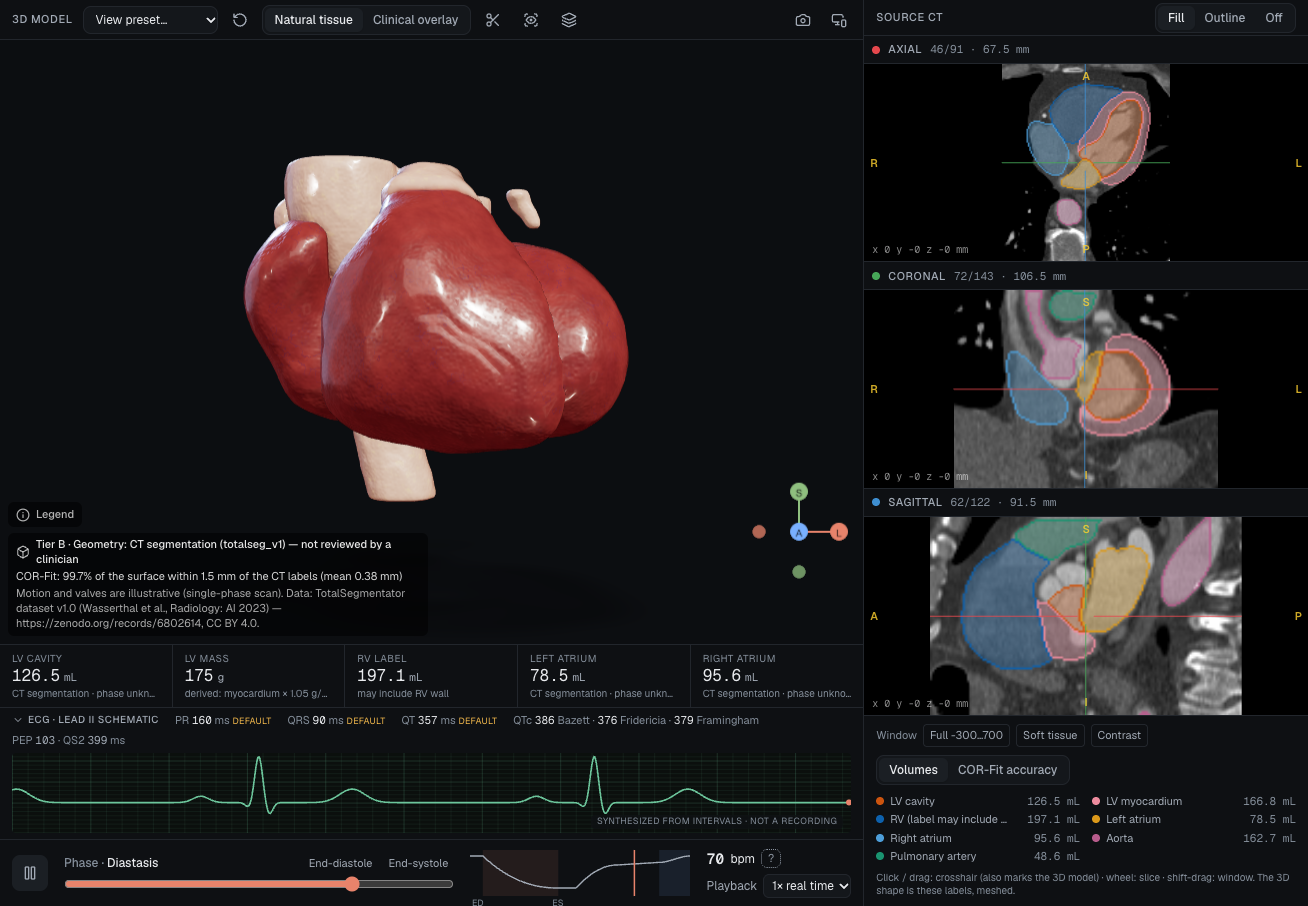
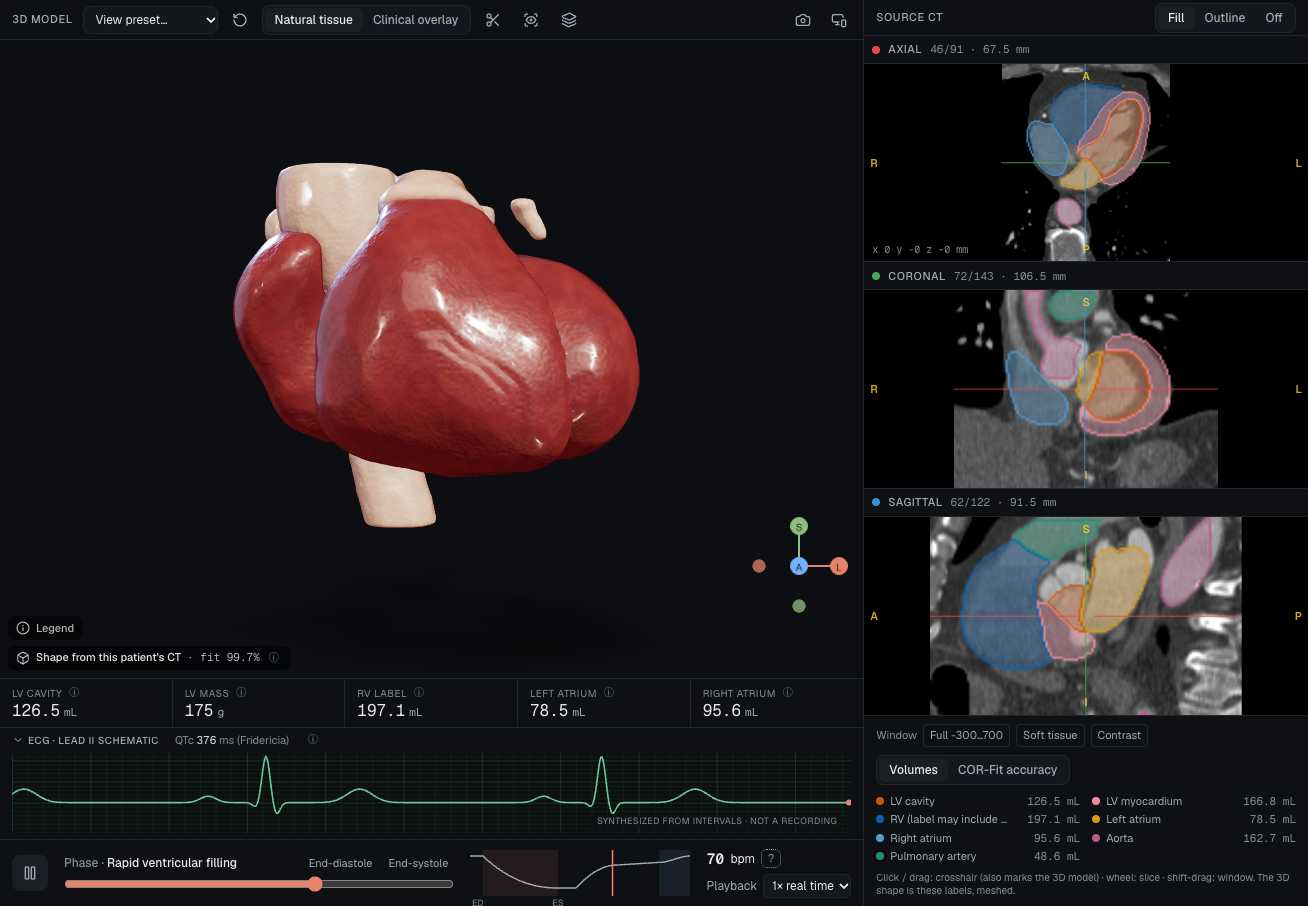
Declutter: one line on screen, details behind ⓘ
InfoTip (hover/keyboard focus, kept in the DOM). Heart: geometry badge one
line + fit, metric sources and ECG intervals/QTc formulas/PEP behind ⓘ,
QTc shown once (Fridericia). Brain: selection card volume + asymmetry,
no man/auto chips, 4 summary metrics, one-line provenance with fit,
coordinates on the axial slice only. Nothing removed, only moved.

diff --git a/src/brain/BrainWorkspace.tsx b/src/brain/BrainWorkspace.tsx
@@ -2,7 +2,7 @@
 // Brain module: structure list | 3D model + measurements | MRI evidence (axial, coronal, sagittal).
 import dynamic from "next/dynamic";
 import { Database, Loader2 } from "lucide-react";
-import { PanelHeader, Segmented, Switch } from "@/components/ui/primitives";
+import { InfoTip, PanelHeader, Segmented, Switch } from "@/components/ui/primitives";
 import { fmtMm, fmtPct } from "@/imaging/fidelity";
 import { useWebgl } from "@/components/workspace/HeartViewport";
 import { useBrain } from "./brainStore";
@@ -47,7 +47,6 @@ export function BrainWorkspace() {
           <SliceView vol={data.vol} view="coronal" useStore={useBrain} />
           <SliceView vol={data.vol} view="sagittal" useStore={useBrain} />
         </div>
-        <p className="border-t border-line bg-panel px-3 py-1.5 text-[10px] leading-snug text-faint">Click or drag to move the crosshair · wheel: next slice · shift-drag: window/level</p>
       </section>
       )}
     </div>
@@ -75,6 +74,7 @@ function SliceControls() {
       <Segmented<"fill" | "outline" | "off"> label="Segmentation overlay" value={s.overlay} onChange={(v) => s.set({ overlay: v })}
         options={[{ value: "fill", label: "Fill" }, { value: "outline", label: "Outline" }, { value: "off", label: "Off" }]} />
       <button className="text-[11px] text-muted hover:text-ink" onClick={() => s.set({ windowCenter: 128, windowWidth: 256 })} title="Reset window/level">W/L</button>
+      <InfoTip label="Slice controls" align="right" side="bottom">Click or drag to move the crosshair · wheel: next slice · shift-drag: window/level</InfoTip>
     </>
   );
 }
@@ -90,18 +90,25 @@ function Selection({ data }: { data: BrainData }) {
   const fit = data.manifest.fidelity?.structures.find((r) => r.index === st.index);
   return (
     <div className="absolute left-3 top-3 w-[260px] rounded-lg border border-line bg-panel/90 p-2.5 text-[12px] shadow-[var(--shadow)] backdrop-blur" data-testid="brain-selection">
-      <p className="font-medium text-ink">{st.name}</p>
+      <div className="flex items-center gap-1.5 font-medium text-ink">
+        {st.name}
+        <InfoTip label={`${st.name}: details`} side="bottom">
+          <dl className="grid grid-cols-[auto_auto] gap-x-3 gap-y-0.5">
+            {twin && <><dt className="text-faint">Contralateral</dt><dd className="num">{twin.volumeMl.toFixed(2)} mL</dd></>}
+            <dt className="text-faint">Labelled</dt><dd>{st.method === "manual" ? "Manually (DKT31)" : st.method.startsWith("automatic (FreeSurfer") ? "Automatically (FreeSurfer)" : st.method}</dd>
+            <dt className="text-faint">Labels</dt><dd className="num">{st.labels.join(", ")}</dd>
+            {fit && fit.nsdPercent != null && <>
+              <dt className="text-faint">COR-Fit ≤1 vox</dt><dd className="num text-ink">{fmtPct(fit.nsdPercent)}</dd>
+              <dt className="text-faint">Mean / HD95</dt><dd className="num">{fmtMm(fit.meanMm)} / {fmtMm(fit.hd95Mm)}</dd>
+              {fit.volumeErrorPercent != null && <><dt className="text-faint">3D vs label volume</dt><dd className="num">{fit.volumeErrorPercent >= 0 ? "+" : ""}{fit.volumeErrorPercent.toFixed(1)} %</dd></>}
+            </>}
+          </dl>
+          <span className="mt-1 block text-faint">COR-Fit: share of this structure&apos;s 3D surface within one voxel of its labels (both directions). Asymmetry: (this − other) / mean.</span>
+        </InfoTip>
+      </div>
       <dl className="mt-1.5 grid grid-cols-[1fr_auto] gap-y-0.5 text-[11px]">
         <dt className="text-faint">Volume</dt><dd className="num text-ink">{st.volumeMl.toFixed(2)} mL</dd>
-        {twin && <><dt className="text-faint">Contralateral</dt><dd className="num">{twin.volumeMl.toFixed(2)} mL</dd></>}
-        {asym !== null && <><dt className="text-faint" title="(this − other) / mean, derived from the two volumes">Asymmetry</dt><dd className="num">{asym >= 0 ? "+" : ""}{asym.toFixed(1)} %</dd></>}
-        <dt className="text-faint">Labelled</dt><dd>{st.method === "manual" ? "Manually (DKT31)" : "Automatically (FreeSurfer)"}</dd>
-        <dt className="text-faint">Labels</dt><dd className="num">{st.labels.join(", ")}</dd>
-        {fit && fit.nsdPercent != null && <>
-          <dt className="text-faint" title="COR-Fit: share of this structure's 3D surface within one voxel of its labels (both directions)">COR-Fit ≤1 vox</dt><dd className="num text-ink">{fmtPct(fit.nsdPercent)}</dd>
-          <dt className="text-faint">Mean / HD95</dt><dd className="num">{fmtMm(fit.meanMm)} / {fmtMm(fit.hd95Mm)}</dd>
-          {fit.volumeErrorPercent != null && <><dt className="text-faint">3D vs label volume</dt><dd className="num">{fit.volumeErrorPercent >= 0 ? "+" : ""}{fit.volumeErrorPercent.toFixed(1)} %</dd></>}
-        </>}
+        {asym !== null && <><dt className="text-faint">Asymmetry</dt><dd className="num">{asym >= 0 ? "+" : ""}{asym.toFixed(1)} %</dd></>}
       </dl>
       {!selected && <p className="mt-1 text-[10px] text-faint">Hover preview — click to select</p>}
     </div>
@@ -121,21 +128,21 @@ function Summary({ data }: { data: BrainData }) {
   );
   return (
     <div className="shrink-0 border-t border-line bg-panel">
-      <div className="grid grid-cols-2 divide-x divide-line md:grid-cols-6">
+      <div className="grid grid-cols-2 divide-x divide-line md:grid-cols-4">
         {metric("Labelled brain volume", `${m.totals.brainMl.toFixed(0)} mL`, "All labelled voxels (skull and CSF outside the labels excluded)")}
-        {metric("Cortex L / R", `${m.totals.cortexLeftMl.toFixed(0)} / ${m.totals.cortexRightMl.toFixed(0)} mL`, "Sum of manual cortical labels per hemisphere")}
-        {metric("Cortical asymmetry", `${asym >= 0 ? "+" : ""}${asym.toFixed(1)} %`, "(left − right) / mean, derived")}
+        {metric("Cortex L / R", `${m.totals.cortexLeftMl.toFixed(0)} / ${m.totals.cortexRightMl.toFixed(0)} mL`, `Sum of cortical labels per hemisphere; asymmetry (left − right) / mean ${asym >= 0 ? "+" : ""}${asym.toFixed(1)} %`)}
         {metric("Hippocampi", `${hip.toFixed(2)} mL`, "Left + right, FreeSurfer automatic labels")}
         {metric("Ventricles", `${ventricles.toFixed(1)} mL`, "Lateral, third and fourth ventricles, FreeSurfer automatic labels")}
-        {m.fidelity && metric(`COR-Fit ≤ ${m.fidelity.toleranceMm} mm`, fmtPct(m.fidelity.overall.nsdPercent),
-          `Share of the 3D surface within one MRI voxel of the segmentation (both directions); mean ${m.fidelity.overall.meanMm} mm. Cortex ${m.fidelity.cortex.nsdPercent}%, deep structures ${m.fidelity.deep.nsdPercent}%. Fidelity to the labels, not clinical accuracy.`)}
       </div>
-      <p className="flex items-start gap-1.5 border-t border-line px-3 py-1.5 text-[10px] leading-snug text-faint" data-testid="brain-provenance">
-        <Database className="mt-0.5 h-3 w-3 shrink-0" />
-        <span>
-          {m.modality}, healthy adult volunteer ({m.subject}). Cortex: {m.provenance.cortex}. Deep structures: {m.provenance.subcortical}. Not reviewed by a clinician; no normative comparison.
-          Data: {m.dataset.name}, {m.dataset.license} — {m.dataset.source}.
-        </span>
+      <p className="flex items-center gap-1.5 border-t border-line px-3 py-1.5 text-[11px] text-faint" data-testid="brain-provenance">
+        <Database className="h-3 w-3 shrink-0" />
+        <span className="truncate">Healthy adult volunteer · {m.dataset.license}</span>
+        {m.fidelity && <span className="num text-muted">· fit {fmtPct(m.fidelity.overall.nsdPercent)}</span>}
+        <InfoTip label="Data source and accuracy">
+          <span className="block">{m.modality}, healthy adult volunteer ({m.subject}). Cortex: {m.provenance.cortex}. Deep structures: {m.provenance.subcortical}. Not reviewed by a clinician; no normative comparison.</span>
+          {m.fidelity && <span className="mt-1 block">COR-Fit ≤ {m.fidelity.toleranceMm} mm: {fmtPct(m.fidelity.overall.nsdPercent)} of the 3D surface within one MRI voxel of the segmentation (both directions); mean {m.fidelity.overall.meanMm} mm. Cortex {m.fidelity.cortex.nsdPercent}%, deep structures {m.fidelity.deep.nsdPercent}%. Fidelity to the labels, not clinical accuracy.</span>}
+          <span className="mt-1 block text-faint">Data: {m.dataset.name}, {m.dataset.license} — {m.dataset.source}.</span>
+        </InfoTip>
       </p>
     </div>
   );

diff --git a/src/components/workspace/EcgStrip.tsx b/src/components/workspace/EcgStrip.tsx
@@ -7,7 +7,7 @@ import { ecgAt, ecgTiming, type Interval } from "@/domain/ecg";
 import type { PatientEntry } from "@/lib/patients";
 import { useApp } from "@/state/store";
 import { getClock } from "@/scene/animation/clock";
-import { cx } from "../ui/primitives";
+import { cx, InfoTip } from "../ui/primitives";
 
 const BEATS = 2.5; // RR intervals visible
 const EV_LABEL: Record<Interval["evidence"], string> = { reported: "reported", derived: "derived", population_default: "default" };
@@ -95,18 +95,23 @@ export function EcgStrip({ entry }: { entry: PatientEntry }) {
         <button className="flex items-center gap-1 text-[10px] font-medium uppercase tracking-wider text-muted hover:text-ink" onClick={() => setOpen(!open)} aria-expanded={open}>
           {open ? <ChevronDown className="h-3 w-3" /> : <ChevronUp className="h-3 w-3" />} ECG · lead II schematic
         </button>
-        {row("PR", timing.pr)}
-        {row("QRS", timing.qrs)}
-        {row("QT", timing.qt)}
-        <span className="whitespace-nowrap" title="Rate-corrected QT: Bazett QT/√RR, Fridericia QT/∛RR, Framingham QT + 0.154(1 − RR) (Sagie 1992)">
-          <span className="text-faint">QTc</span> <span className="num text-ink">{Math.round(q.bazett)}</span><span className="text-faint"> Bazett · </span>
-          <span className="num text-ink">{Math.round(q.fridericia)}</span><span className="text-faint"> Fridericia · </span>
-          <span className="num text-ink">{Math.round(q.framingham)}</span><span className="text-faint"> Framingham</span>
-          {q.reported && <span className="text-faint"> (reported {q.reported.ms}{q.reported.method ? ` ${q.reported.method}` : ""})</span>}
+        <span className="whitespace-nowrap">
+          <span className="text-faint">QTc</span> <span className="num text-ink">{Math.round(q.fridericia)}</span><span className="text-faint"> ms (Fridericia)</span>
         </span>
-        <span className="whitespace-nowrap text-faint" title="Weissler 1968 systolic time intervals (men): PEP = 131 − 0.4·HR, QS2 = 546 − 2.1·HR. QRS onset is placed one PEP before aortic valve opening in the 3D cycle.">
-          PEP <span className="num text-muted">{Math.round(timing.pep)}</span> · QS2 <span className="num text-muted">{Math.round(timing.qs2)}</span> ms
-        </span>
+        <InfoTip label="ECG intervals and sources">
+          <span className="flex flex-col gap-1">
+            <span className="flex flex-wrap gap-x-3">{row("PR", timing.pr)}{row("QRS", timing.qrs)}{row("QT", timing.qt)}</span>
+            <span title="Rate-corrected QT: Bazett QT/√RR, Fridericia QT/∛RR, Framingham QT + 0.154(1 − RR) (Sagie 1992)">
+              <span className="text-faint">QTc</span> <span className="num text-ink">{Math.round(q.bazett)}</span><span className="text-faint"> Bazett · </span>
+              <span className="num text-ink">{Math.round(q.fridericia)}</span><span className="text-faint"> Fridericia · </span>
+              <span className="num text-ink">{Math.round(q.framingham)}</span><span className="text-faint"> Framingham</span>
+              {q.reported && <span className="text-faint"> (reported {q.reported.ms}{q.reported.method ? ` ${q.reported.method}` : ""})</span>}
+            </span>
+            <span className="text-faint">
+              PEP <span className="num text-muted">{Math.round(timing.pep)}</span> · QS2 <span className="num text-muted">{Math.round(timing.qs2)}</span> ms — Weissler 1968 (men): PEP = 131 − 0.4·HR, QS2 = 546 − 2.1·HR; QRS onset is placed one PEP before aortic valve opening.
+            </span>
+          </span>
+        </InfoTip>
       </div>
       {open && (
         <div className="relative h-[86px] px-3 pb-1.5">

diff --git a/src/brain/StructurePanel.tsx b/src/brain/StructurePanel.tsx
@@ -2,7 +2,7 @@
 // Structure tree: every labelled structure with its measured volume and how it was labelled.
 import { useMemo, useState } from "react";
 import { ChevronRight, Eye, EyeOff, Search } from "lucide-react";
-import { PanelHeader, cx } from "@/components/ui/primitives";
+import { InfoTip, PanelHeader, cx } from "@/components/ui/primitives";
 import { useBrain } from "./brainStore";
 import { flatIndex, type Vec3 } from "@/imaging/sliceGeometry";
 import type { BrainData } from "./useBrainData";
@@ -57,7 +57,11 @@ export function StructurePanel({ data }: { data: BrainData }) {
 
   return (
     <aside className="flex h-full min-h-0 flex-col" aria-label="Brain structures">
-      <PanelHeader title="Structures" count={structures.length} />
+      <PanelHeader title="Structures" count={structures.length} aside={
+        <InfoTip label="How structures were labelled" align="right" side="bottom">
+          Volumes: voxel counts of each label in this scan (mL). Cortical regions: {structures.some((x) => x.method === "manual") ? "manual labels (DKT31 protocol)" : structures.find((x) => x.group === "cortex")?.method ?? "—"}. Deep structures: FreeSurfer automatic labels, not manually reviewed.
+        </InfoTip>
+      } />
       <label className="flex items-center gap-2 border-b border-line px-3 py-2">
         <Search className="h-3.5 w-3.5 text-faint" aria-hidden />
         <input value={query} onChange={(e) => setQuery(e.target.value)} placeholder="Find structure" aria-label="Find structure" className="w-full bg-transparent text-[12px] outline-none placeholder:text-faint" />
@@ -82,7 +86,6 @@ export function StructurePanel({ data }: { data: BrainData }) {
                       <button className="min-w-0 flex-1 truncate py-1 text-left" onClick={() => select(st)} title={`${st.name} — labels ${st.labels.join(", ")} · ${st.method}`}>
                         {st.name.replace(/ \((left|right)\)$/, g.id.startsWith("ctx") ? "" : " ($1)")}
                       </button>
-                      <span className={cx("shrink-0 rounded px-1 text-[9px] uppercase tracking-wide", st.method === "manual" ? "bg-ok/15 text-ok" : "bg-panel-3 text-faint")} title={st.method}>{st.method === "manual" ? "man" : "auto"}</span>
                       <span className="num w-14 shrink-0 text-right text-[11px] text-muted">{st.volumeMl.toFixed(2)}</span>
                       {st.group !== "cortex" && (
                         <button className="shrink-0 rounded p-0.5 text-faint opacity-60 hover:text-ink group-hover:opacity-100" aria-label={s.hidden.has(st.index) ? `Show ${st.name}` : `Hide ${st.name}`} onClick={() => s.toggleHidden(st.index)}>
@@ -97,7 +100,6 @@ export function StructurePanel({ data }: { data: BrainData }) {
           );
         })}
       </div>
-      <p className="border-t border-line px-3 py-2 text-[10px] leading-snug text-faint">Volumes: voxel counts of each label in this scan (mL). <span className="text-ok">man</span> = manual cortical label (DKT31); auto = FreeSurfer automatic, not manually reviewed.</p>
     </aside>
   );
 }

diff --git a/src/components/workspace/GeometryBadge.tsx b/src/components/workspace/GeometryBadge.tsx
@@ -1,29 +1,32 @@
 "use client";
 import { Box } from "lucide-react";
 import type { HeartAssetSpec } from "@/scene/asset-adapters/registry";
+import { InfoTip } from "../ui/primitives";
 
-/** Where the 3D shape comes from — always visible next to the heart (provenance is part of the picture). */
+/** Where the 3D shape comes from — always visible next to the heart (provenance is part of the picture).
+ * One short line on screen; the full source, COR-Fit numbers and caveats sit behind ⓘ. */
 export function GeometryBadge({ spec }: { spec: HeartAssetSpec }) {
   const m = spec.manifest;
   const fit = m.fidelity ? (m.fidelity.lods.high ?? m.fidelity.lods.low) : undefined;
+  const short = spec.tier === "B" ? "Shape from this patient's CT" : "CT template · illustration";
   return (
-    <div className="pointer-events-auto rounded-md bg-black/55 px-2 py-1 text-[11px] leading-snug text-white/90" data-testid="geometry-badge">
-      <p className="flex items-center gap-1.5 font-medium">
-        <Box className="h-3.5 w-3.5 shrink-0 opacity-80" />
-        Tier {spec.tier} · Geometry: {spec.geometrySource}
-      </p>
-      {fit && (
-        <p className="mt-0.5 text-white/85" data-testid="corfit-line">
-          COR-Fit: {fit.overall.nsdPercent}% of the surface within {fit.toleranceMm} mm of the CT labels (mean {fit.overall.meanMm} mm)
-        </p>
-      )}
-      {spec.tier === "B" ? (
-        <p className="mt-0.5 text-white/65">
-          Motion and valves are illustrative (single-phase scan). Data: {m.attribution}, {m.license}.
-        </p>
-      ) : (
-        <p className="mt-0.5 text-white/65">Shape is an illustration; only reported dimensions are data-driven.</p>
-      )}
+    <div className="pointer-events-auto flex items-center gap-1.5 rounded-md bg-black/55 px-2 py-1 text-[11px] leading-snug text-white/90" data-testid="geometry-badge">
+      <Box className="h-3.5 w-3.5 shrink-0 opacity-80" />
+      <span className="font-medium">{short}</span>
+      {fit && <span className="num text-white/70">· fit {fit.overall.nsdPercent}%</span>}
+      <InfoTip label="Shape source and accuracy">
+        <span className="block font-medium text-ink">Tier {spec.tier} · Geometry: {spec.geometrySource}</span>
+        {fit && (
+          <span className="mt-1 block" data-testid="corfit-line">
+            COR-Fit: {fit.overall.nsdPercent}% of the surface within {fit.toleranceMm} mm of the CT labels (mean {fit.overall.meanMm} mm)
+          </span>
+        )}
+        <span className="mt-1 block text-faint">
+          {spec.tier === "B"
+            ? `Motion and valves are illustrative (single-phase scan). Data: ${m.attribution}, ${m.license}.`
+            : "Shape is an illustration; only reported dimensions are data-driven."}
+        </span>
+      </InfoTip>
     </div>
   );
 }

diff --git a/src/components/ui/primitives.tsx b/src/components/ui/primitives.tsx
@@ -58,6 +58,31 @@ export function EvidenceBadge({ evidence, compact }: { evidence: EvidenceClass; 
   );
 }
 
+/**
+ * ⓘ that reveals detail on hover or keyboard focus. Detail stays in the DOM (readable by screen readers
+ * and tests); only the primary value sits on screen. Provenance moves here, it is never deleted.
+ */
+export function InfoTip({ children, label = "Details", align = "left", side = "top", className }: { children: ReactNode; label?: string; align?: "left" | "right"; side?: "top" | "bottom"; className?: string }) {
+  return (
+    <span className={cx("group relative inline-flex align-middle", className)}>
+      <button type="button" aria-label={label} className="inline-flex h-4 w-4 items-center justify-center rounded-full text-[10px] leading-none text-faint hover:text-ink focus-visible:text-ink focus-visible:outline focus-visible:outline-1 focus-visible:outline-accent">
+        ⓘ
+      </button>
+      <span
+        role="tooltip"
+        className={cx(
+          "invisible absolute z-50 w-max max-w-[22rem] rounded-md border border-line bg-panel-2 px-2.5 py-2 text-left text-[11px] font-normal normal-case leading-snug tracking-normal text-muted opacity-0 shadow-lg transition-opacity",
+          "group-hover:visible group-hover:opacity-100 group-focus-within:visible group-focus-within:opacity-100",
+          side === "top" ? "bottom-full mb-1.5" : "top-full mt-1.5",
+          align === "left" ? "left-0" : "right-0",
+        )}
+      >
+        {children}
+      </span>
+    </span>
+  );
+}
+
 export function Pill({ children, tone = "neutral", title }: { children: ReactNode; tone?: "neutral" | "warn" | "error" | "info" | "ok" | "accent"; title?: string }) {
   return (
     <span

diff --git a/src/components/workspace/HeartMetrics.tsx b/src/components/workspace/HeartMetrics.tsx
@@ -3,6 +3,7 @@
 // volumes; Tier A: the record's reported values. Unknown is shown as unknown, never as a default.
 import type { PatientEntry } from "@/lib/patients";
 import type { HeartAssetSpec } from "@/scene/asset-adapters/registry";
+import { InfoTip } from "../ui/primitives";
 
 interface Metric { label: string; value: string | null; unit: string; source: string }
 
@@ -47,14 +48,16 @@ export function HeartMetrics({ entry, spec }: { entry: PatientEntry; spec: Heart
   const metrics = spec.manifest.imaging ? fromCt(spec) : fromRecord(entry);
   return (
     <div className="grid shrink-0 grid-cols-3 divide-x divide-line border-t border-line bg-panel md:grid-cols-5" data-testid="heart-metrics">
-      {metrics.map((m) => (
-        <div key={m.label} className="min-w-0 px-3 py-1.5" title={`${m.label}: ${m.source}`}>
-          <p className="truncate text-[10px] uppercase tracking-wider text-faint">{m.label}</p>
+      {metrics.map((m, i) => (
+        <div key={m.label} className="min-w-0 px-3 py-1.5">
+          <p className="flex items-center gap-1 text-[10px] uppercase tracking-wider text-faint">
+            <span className="truncate">{m.label}</span>
+            <InfoTip label={`${m.label}: source`} align={i >= 3 ? "right" : "left"}>{m.value ? m.source : "unknown"}</InfoTip>
+          </p>
           <p className="num text-[16px] leading-tight text-ink">
             {m.value ?? <span className="text-faint">—</span>}
             {m.value && <span className="ml-1 text-[11px] text-muted">{m.unit}</span>}
           </p>
-          <p className="truncate text-[10px] text-faint">{m.value ? m.source : "unknown"}</p>
         </div>
       ))}
     </div>

diff --git a/tests/e2e/ecg.spec.ts b/tests/e2e/ecg.spec.ts
@@ -22,3 +22,21 @@ test("ECG strip: intervals with their provenance, rate-corrected QT, locked to t
   await strip.screenshot({ path: `${shots}/e2e-ecg-strip.png` });
   expect(errors).toEqual([]);
 });
+
+test("details sit behind ⓘ: hidden at rest, shown on hover and keyboard focus", async ({ page }) => {
+  await page.goto("/");
+  await page.getByRole("button", { name: /^Synthetic 01/ }).click();
+  const strip = page.getByTestId("ecg-strip");
+  await expect(strip.getByText("ms (Fridericia)")).toBeVisible();
+  const tip = strip.getByRole("tooltip");
+  await expect(tip).toBeHidden();
+  await strip.getByRole("button", { name: "ECG intervals and sources" }).hover();
+  await expect(tip).toBeVisible();
+  await expect(tip).toContainText("PR 160 ms reported");
+
+  const badge = page.getByTestId("geometry-badge");
+  await expect(badge.getByRole("tooltip")).toBeHidden();
+  await badge.getByRole("button", { name: "Shape source and accuracy" }).focus();
+  await expect(badge.getByRole("tooltip")).toBeVisible();
+  await expect(badge.getByRole("tooltip")).toContainText("Tier A · Geometry");
+});

diff --git a/src/imaging/SliceView.tsx b/src/imaging/SliceView.tsx
@@ -137,7 +137,7 @@ export function SliceView({ vol, view, useStore }: { vol: SliceVolume; view: Vie
         />
         <Edge pos="left" text={EDGES[view][0]} /><Edge pos="right" text={EDGES[view][1]} />
         <Edge pos="top" text={EDGES[view][2]} /><Edge pos="bottom" text={EDGES[view][3]} />
-        <span className="num pointer-events-none absolute bottom-1 left-2 text-[10px] text-white/55">x {posMm[0]} y {posMm[1]} z {posMm[2]} mm</span>
+        {view === "axial" && <span className="num pointer-events-none absolute bottom-1 left-2 text-[10px] text-white/55">x {posMm[0]} y {posMm[1]} z {posMm[2]} mm</span>}
       </div>
     </section>
   );

diff --git a/docs/design-system.md b/docs/design-system.md
@@ -15,6 +15,9 @@ Goal: read like professional imaging software (OHIF, 3D Slicer, cvi42, HeartFlow
    bar, not repeated per viewport.
 5. **Dense, aligned numbers.** Tabular mono digits, units in muted text, right-aligned columns.
 6. **Provenance is part of the picture.** Every view says where its data comes from (badge or corner text).
+7. **One line on screen, the rest behind ⓘ.** Each view shows its primary values and a one-line source
+   ("CT template · illustration · fit 89.1%"); methods, formulas, label codes, citations and per-metric
+   sources sit in `InfoTip` (hover or keyboard focus, kept in the DOM). Detail is moved, never deleted.
 
 ## Tokens (dark; light theme mirrors them)
 
